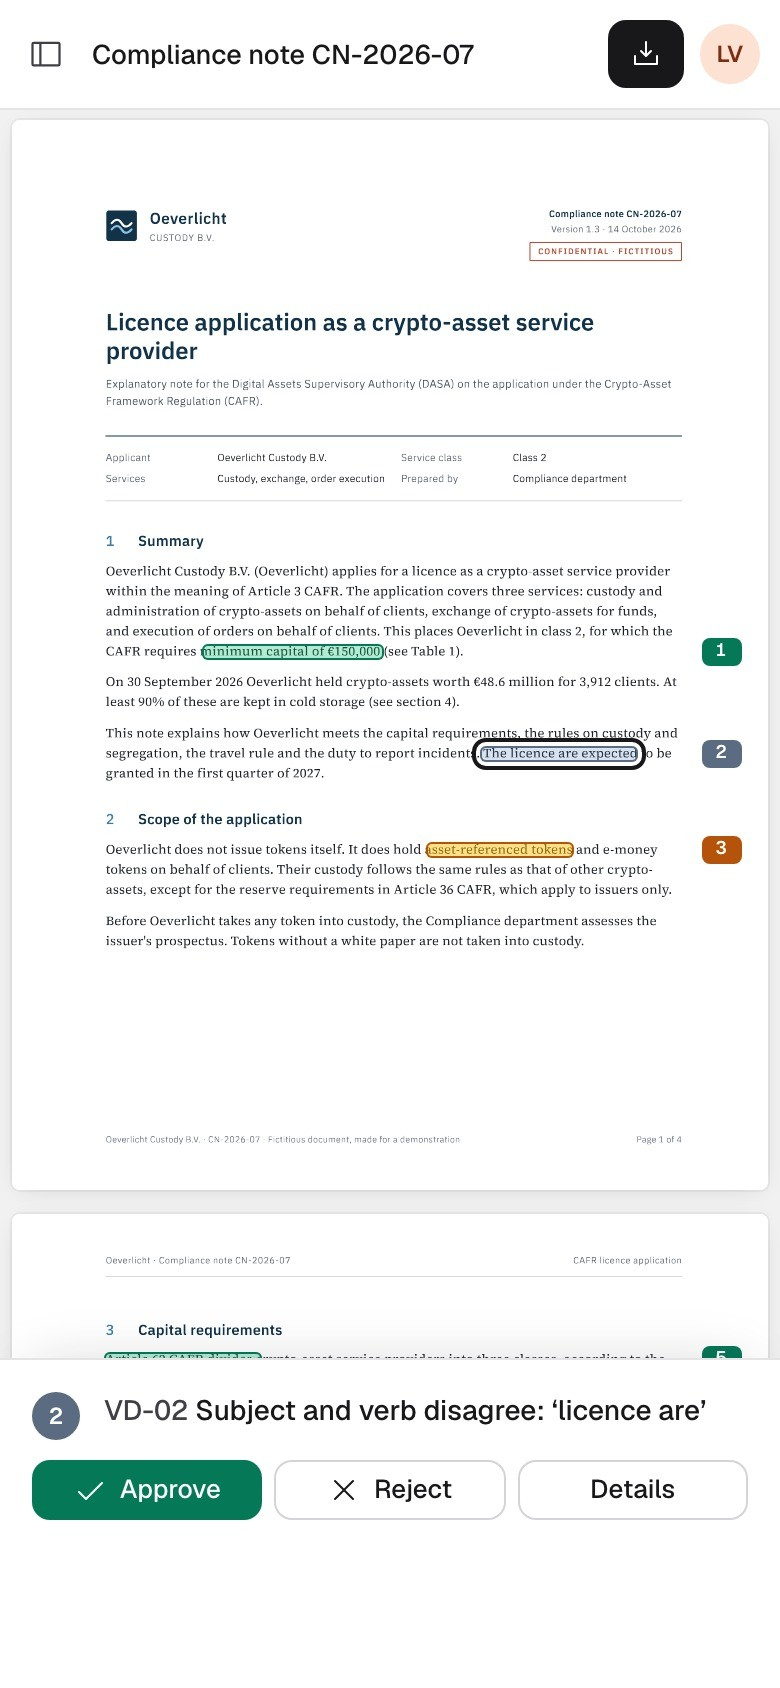
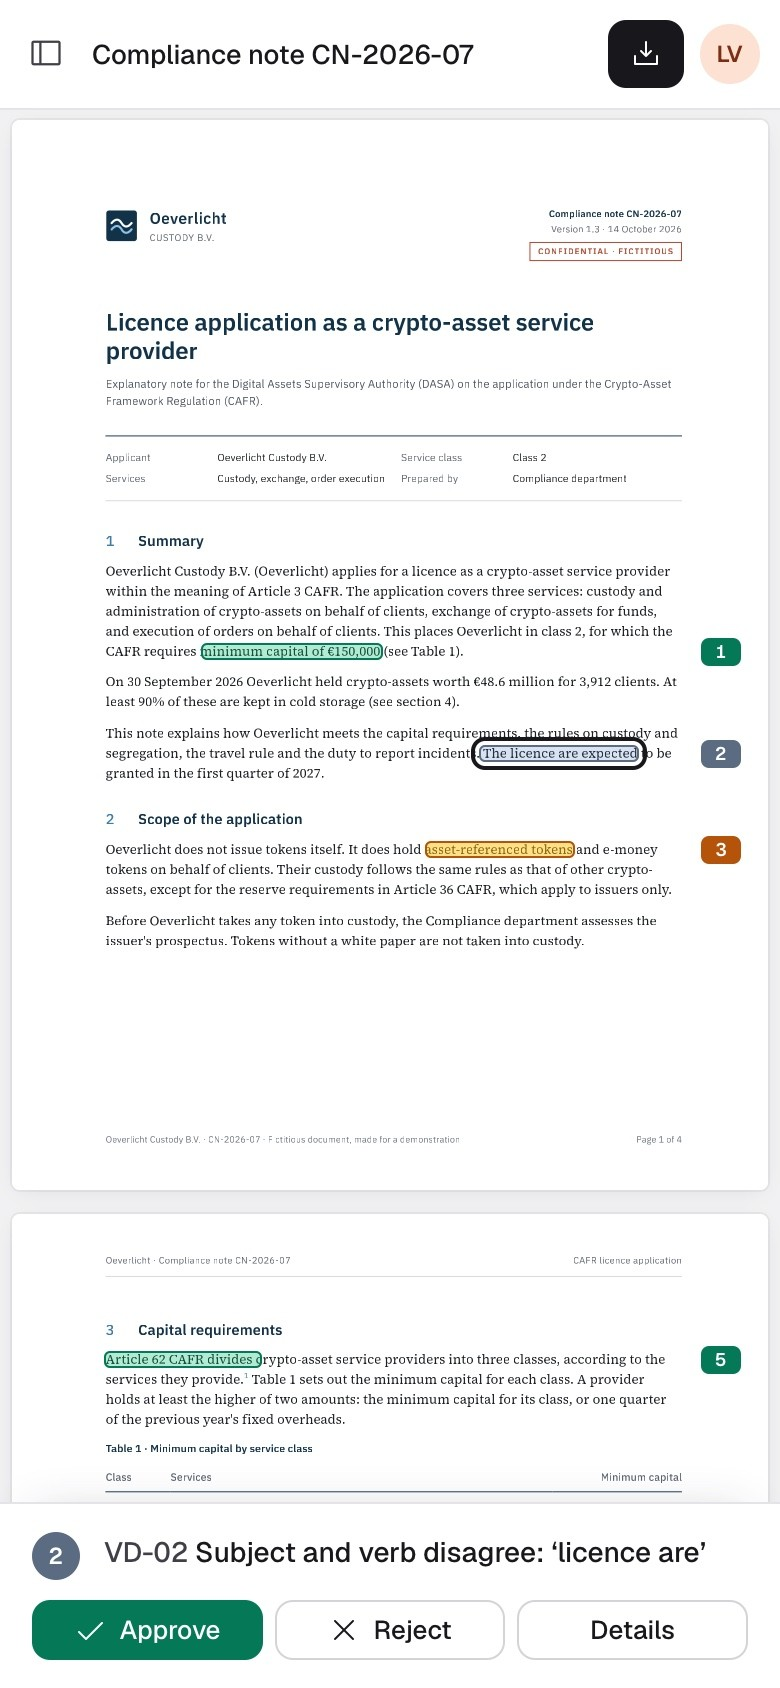
fix(lab): dashboard rows filled, phone bar hugs, back control reads as one
The dashboard lists all four documents of the sample and spreads them over the
stretched card; the figures card starts level with its neighbour and spreads its
2x2 to the foot. On phones the folded bar hugs its content plus the safe area,
and the way back is a small arrow-and-label row above the Findings title.

diff --git a/lab/v1/index.html b/lab/v1/index.html
@@ -467,7 +467,7 @@ body.dock-off .dockshow:active{transform:translateX(-50%) scale(.94)}
 .dsev span{display:inline-flex;align-items:center;gap:7px}
 .dsev b{font-weight:600;color:var(--ink);margin-left:2px}
 .dsev small{color:var(--muted);font-size:12.5px}
-.dstats{display:grid;grid-template-columns:1fr 1fr;gap:16px 20px;align-content:center}   /* the figures sit in the middle of a stretched card */
+.dstats{display:grid;grid-template-columns:1fr 1fr;gap:16px 20px;align-content:space-between}   /* first line level with its neighbour's, the 2x2 spread to the foot */
 .dstat{display:flex;flex-direction:column;gap:2px}
 .dstat span{font-size:12.5px;color:var(--muted);font-weight:500}
 .dstat b{font-size:28px;font-weight:600;letter-spacing:-.025em;font-variant-numeric:tabular-nums}
@@ -489,6 +489,9 @@ body.dock-off .dockshow:active{transform:translateX(-50%) scale(.94)}
 .dlist2 .dt b{font-weight:500;overflow:hidden;text-overflow:ellipsis;white-space:nowrap}
 .dlist2 .dt span{font-size:12.5px;color:var(--muted)}
 .dlist2 .dn{font-size:13px;color:var(--ink-2);font-variant-numeric:tabular-nums}
+.ddocs{display:flex;flex-direction:column}
+.ddocs .dlist2{flex:1;display:flex;flex-direction:column}
+.ddocs .dlist2 li{flex:1}   /* the rows share the card's height: no bare band under the last (V1) */
 .rv{display:grid;grid-template-columns:minmax(0,1fr) 360px;gap:16px;align-items:start}
 .rvlist{grid-row:span 2}
 .rvtabs{margin-bottom:8px}
@@ -596,7 +599,7 @@ body.dock-off .dockshow:active{transform:translateX(-50%) scale(.94)}
 }
 /* phone: a drawer for the sidebar, the document first, controls in a row above the findings sheet */
 @media (max-width:760px){
-  :root{--gutter-r:0px;--pad-x:6px;--top:54px;--lane:0px;--lane-gap:0px}
+  :root{--gutter-r:0px;--pad-x:6px;--top:54px;--lane:0px;--lane-gap:0px;--peek:132px}   /* the folded bar at its tallest (no finding chosen), for the room under the pages and the toast */
   #docrow{display:block;padding-right:0}
   #lane{display:none}
   .top{gap:6px;padding:0 10px 0 6px;background:var(--surface);box-shadow:0 1px 0 var(--line)}   /* white on a phone, like the status bar above it */
@@ -624,7 +627,7 @@ body.dock-off .dockshow:active{transform:translateX(-50%) scale(.94)}
   /* the findings, a full page on a phone (Andy, 22 Nov: « make the finding a full page … I don't want it to be a slide
      up »). Folded, the panel is the bar at the foot of the document; open, it is a page under the top bar, and the
      « Document » button in its header goes back. Between the two it cross-fades; nothing slides. */
-  #panel{display:flex;flex-direction:column;position:fixed;left:0;right:0;top:auto;bottom:0;height:var(--peek);z-index:30;gap:0;padding:0;border-radius:0;background:var(--surface);
+  #panel{display:flex;flex-direction:column;position:fixed;left:0;right:0;top:auto;bottom:0;height:auto;z-index:30;gap:0;padding:0 0 env(safe-area-inset-bottom);border-radius:0;background:var(--surface);
     box-shadow:0 -1px 0 var(--line),0 -10px 28px -16px rgba(24,24,27,.22);overflow:hidden}
   body.sheet-open #panel{top:var(--top);height:auto;box-shadow:none;overflow-y:auto;animation:fadein .2s var(--ease)}
   body.doc-back #scroller{animation:fadein .2s var(--ease)}
@@ -633,12 +636,15 @@ body.dock-off .dockshow:active{transform:translateX(-50%) scale(.94)}
   #panel .fcard{box-shadow:none;border-radius:0;max-height:none;overflow:visible;background:var(--surface)}
   #findhead{position:sticky;top:0;z-index:2;padding:8px 14px 12px;background:var(--surface);border-bottom:1px solid var(--line)}   /* stays while the list scrolls */
   #detail{flex:none;background:var(--surface-2) !important;border-bottom:1px solid var(--line)}
-  .backdoc{display:inline-flex;align-items:center;gap:4px;flex:none;height:34px;margin-left:-8px;padding:0 8px 0 4px;border:0;border-radius:var(--r-sm);background:none;
-    color:var(--ink);font:500 15px/1 var(--sans);cursor:pointer}
-  .backdoc .ic{width:18px;height:18px}
-  .backdoc:active{background:var(--hover)}
+  /* the way back: a small control on its own row, « Findings » the title under it (V3) */
+  #findhead .fhead{flex-wrap:wrap;row-gap:2px}
+  #findhead .fhead h2{font-size:20px}
+  .backdoc{display:inline-flex;align-items:center;gap:4px;flex:0 0 100%;justify-content:flex-start;height:28px;margin-left:-6px;padding:0 6px;border:0;border-radius:var(--r-sm);background:none;
+    color:var(--ink-2);font:500 13.5px/1 var(--sans);cursor:pointer}
+  .backdoc .ic{width:16px;height:16px}
+  .backdoc:active{color:var(--ink)}
   #peek{display:grid;grid-template-columns:24px minmax(0,1fr);gap:10px 12px;align-items:start;align-content:start;flex:none;
-    padding:16px 16px 16px;min-height:var(--peek);cursor:pointer}
+    padding:14px 16px 14px;cursor:pointer}   /* the bar hugs its content (V4) */
   #peek .ptext{font-size:14px;line-height:1.4;color:var(--ink-2);display:-webkit-box;-webkit-line-clamp:2;-webkit-box-orient:vertical;overflow:hidden}
   #peek .ptext:first-child{grid-column:1 / -1}
   #peek .ptext b{font-weight:500;color:var(--ink)}
@@ -1066,7 +1072,7 @@ function renderDashboard(){
       </section>
       <section class="dcard dact"><div class="dhead"><h3>Recent activity</h3><a class="linkbtn" href="#/reviews">All reviews</a></div>${activityHTML(5)}</section>
       <section class="dcard ddocs"><div class="dhead"><h3>Documents</h3><a class="linkbtn" href="#/documents">All documents</a></div>
-        <ul class="dlist2">${libDocs().slice(0, 3).map(d => `<li><span class="dt"><b>${esc(d.title)}</b><span>${DOC_STATUS[d.status]}</span></span>
+        <ul class="dlist2">${libDocs().slice(0, 4).map(d => `<li><span class="dt"><b>${esc(d.title)}</b><span>${DOC_STATUS[d.status]}</span></span>
           <span class="dn">${d.status === 'review' ? `${d.decided}/${d.findings}` : d.findings}</span></li>`).join('')}</ul></section>
     </div>`;
 }

diff --git a/lab/v1/template.html b/lab/v1/template.html
@@ -467,7 +467,7 @@ body.dock-off .dockshow:active{transform:translateX(-50%) scale(.94)}
 .dsev span{display:inline-flex;align-items:center;gap:7px}
 .dsev b{font-weight:600;color:var(--ink);margin-left:2px}
 .dsev small{color:var(--muted);font-size:12.5px}
-.dstats{display:grid;grid-template-columns:1fr 1fr;gap:16px 20px;align-content:center}   /* the figures sit in the middle of a stretched card */
+.dstats{display:grid;grid-template-columns:1fr 1fr;gap:16px 20px;align-content:space-between}   /* first line level with its neighbour's, the 2x2 spread to the foot */
 .dstat{display:flex;flex-direction:column;gap:2px}
 .dstat span{font-size:12.5px;color:var(--muted);font-weight:500}
 .dstat b{font-size:28px;font-weight:600;letter-spacing:-.025em;font-variant-numeric:tabular-nums}
@@ -489,6 +489,9 @@ body.dock-off .dockshow:active{transform:translateX(-50%) scale(.94)}
 .dlist2 .dt b{font-weight:500;overflow:hidden;text-overflow:ellipsis;white-space:nowrap}
 .dlist2 .dt span{font-size:12.5px;color:var(--muted)}
 .dlist2 .dn{font-size:13px;color:var(--ink-2);font-variant-numeric:tabular-nums}
+.ddocs{display:flex;flex-direction:column}
+.ddocs .dlist2{flex:1;display:flex;flex-direction:column}
+.ddocs .dlist2 li{flex:1}   /* the rows share the card's height: no bare band under the last (V1) */
 .rv{display:grid;grid-template-columns:minmax(0,1fr) 360px;gap:16px;align-items:start}
 .rvlist{grid-row:span 2}
 .rvtabs{margin-bottom:8px}
@@ -596,7 +599,7 @@ body.dock-off .dockshow:active{transform:translateX(-50%) scale(.94)}
 }
 /* phone: a drawer for the sidebar, the document first, controls in a row above the findings sheet */
 @media (max-width:760px){
-  :root{--gutter-r:0px;--pad-x:6px;--top:54px;--lane:0px;--lane-gap:0px}
+  :root{--gutter-r:0px;--pad-x:6px;--top:54px;--lane:0px;--lane-gap:0px;--peek:132px}   /* the folded bar at its tallest (no finding chosen), for the room under the pages and the toast */
   #docrow{display:block;padding-right:0}
   #lane{display:none}
   .top{gap:6px;padding:0 10px 0 6px;background:var(--surface);box-shadow:0 1px 0 var(--line)}   /* white on a phone, like the status bar above it */
@@ -624,7 +627,7 @@ body.dock-off .dockshow:active{transform:translateX(-50%) scale(.94)}
   /* the findings, a full page on a phone (Andy, 22 Nov: « make the finding a full page … I don't want it to be a slide
      up »). Folded, the panel is the bar at the foot of the document; open, it is a page under the top bar, and the
      « Document » button in its header goes back. Between the two it cross-fades; nothing slides. */
-  #panel{display:flex;flex-direction:column;position:fixed;left:0;right:0;top:auto;bottom:0;height:var(--peek);z-index:30;gap:0;padding:0;border-radius:0;background:var(--surface);
+  #panel{display:flex;flex-direction:column;position:fixed;left:0;right:0;top:auto;bottom:0;height:auto;z-index:30;gap:0;padding:0 0 env(safe-area-inset-bottom);border-radius:0;background:var(--surface);
     box-shadow:0 -1px 0 var(--line),0 -10px 28px -16px rgba(24,24,27,.22);overflow:hidden}
   body.sheet-open #panel{top:var(--top);height:auto;box-shadow:none;overflow-y:auto;animation:fadein .2s var(--ease)}
   body.doc-back #scroller{animation:fadein .2s var(--ease)}
@@ -633,12 +636,15 @@ body.dock-off .dockshow:active{transform:translateX(-50%) scale(.94)}
   #panel .fcard{box-shadow:none;border-radius:0;max-height:none;overflow:visible;background:var(--surface)}
   #findhead{position:sticky;top:0;z-index:2;padding:8px 14px 12px;background:var(--surface);border-bottom:1px solid var(--line)}   /* stays while the list scrolls */
   #detail{flex:none;background:var(--surface-2) !important;border-bottom:1px solid var(--line)}
-  .backdoc{display:inline-flex;align-items:center;gap:4px;flex:none;height:34px;margin-left:-8px;padding:0 8px 0 4px;border:0;border-radius:var(--r-sm);background:none;
-    color:var(--ink);font:500 15px/1 var(--sans);cursor:pointer}
-  .backdoc .ic{width:18px;height:18px}
-  .backdoc:active{background:var(--hover)}
+  /* the way back: a small control on its own row, « Findings » the title under it (V3) */
+  #findhead .fhead{flex-wrap:wrap;row-gap:2px}
+  #findhead .fhead h2{font-size:20px}
+  .backdoc{display:inline-flex;align-items:center;gap:4px;flex:0 0 100%;justify-content:flex-start;height:28px;margin-left:-6px;padding:0 6px;border:0;border-radius:var(--r-sm);background:none;
+    color:var(--ink-2);font:500 13.5px/1 var(--sans);cursor:pointer}
+  .backdoc .ic{width:16px;height:16px}
+  .backdoc:active{color:var(--ink)}
   #peek{display:grid;grid-template-columns:24px minmax(0,1fr);gap:10px 12px;align-items:start;align-content:start;flex:none;
-    padding:16px 16px 16px;min-height:var(--peek);cursor:pointer}
+    padding:14px 16px 14px;cursor:pointer}   /* the bar hugs its content (V4) */
   #peek .ptext{font-size:14px;line-height:1.4;color:var(--ink-2);display:-webkit-box;-webkit-line-clamp:2;-webkit-box-orient:vertical;overflow:hidden}
   #peek .ptext:first-child{grid-column:1 / -1}
   #peek .ptext b{font-weight:500;color:var(--ink)}

diff --git a/lab/desk.js b/lab/desk.js
@@ -283,7 +283,7 @@ function renderDashboard(){
       </section>
       <section class="dcard dact"><div class="dhead"><h3>Recent activity</h3><a class="linkbtn" href="#/reviews">All reviews</a></div>${activityHTML(5)}</section>
       <section class="dcard ddocs"><div class="dhead"><h3>Documents</h3><a class="linkbtn" href="#/documents">All documents</a></div>
-        <ul class="dlist2">${libDocs().slice(0, 3).map(d => `<li><span class="dt"><b>${esc(d.title)}</b><span>${DOC_STATUS[d.status]}</span></span>
+        <ul class="dlist2">${libDocs().slice(0, 4).map(d => `<li><span class="dt"><b>${esc(d.title)}</b><span>${DOC_STATUS[d.status]}</span></span>
           <span class="dn">${d.status === 'review' ? `${d.decided}/${d.findings}` : d.findings}</span></li>`).join('')}</ul></section>
     </div>`;
 }
